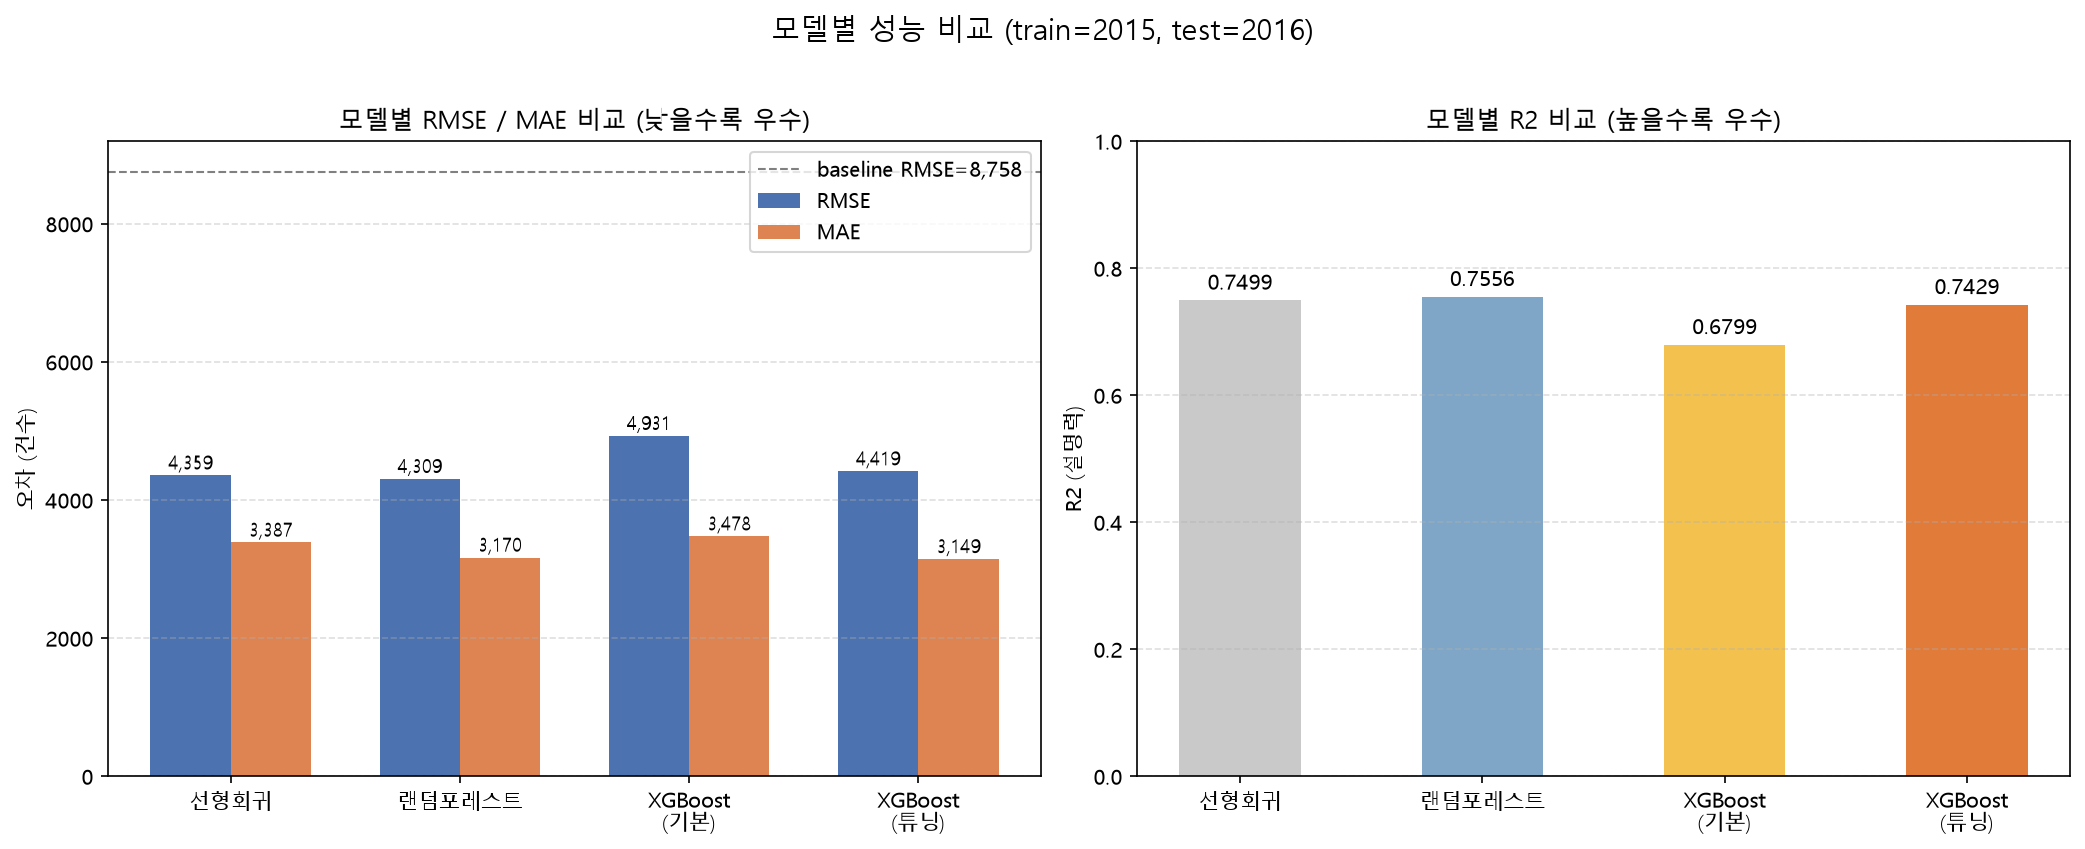
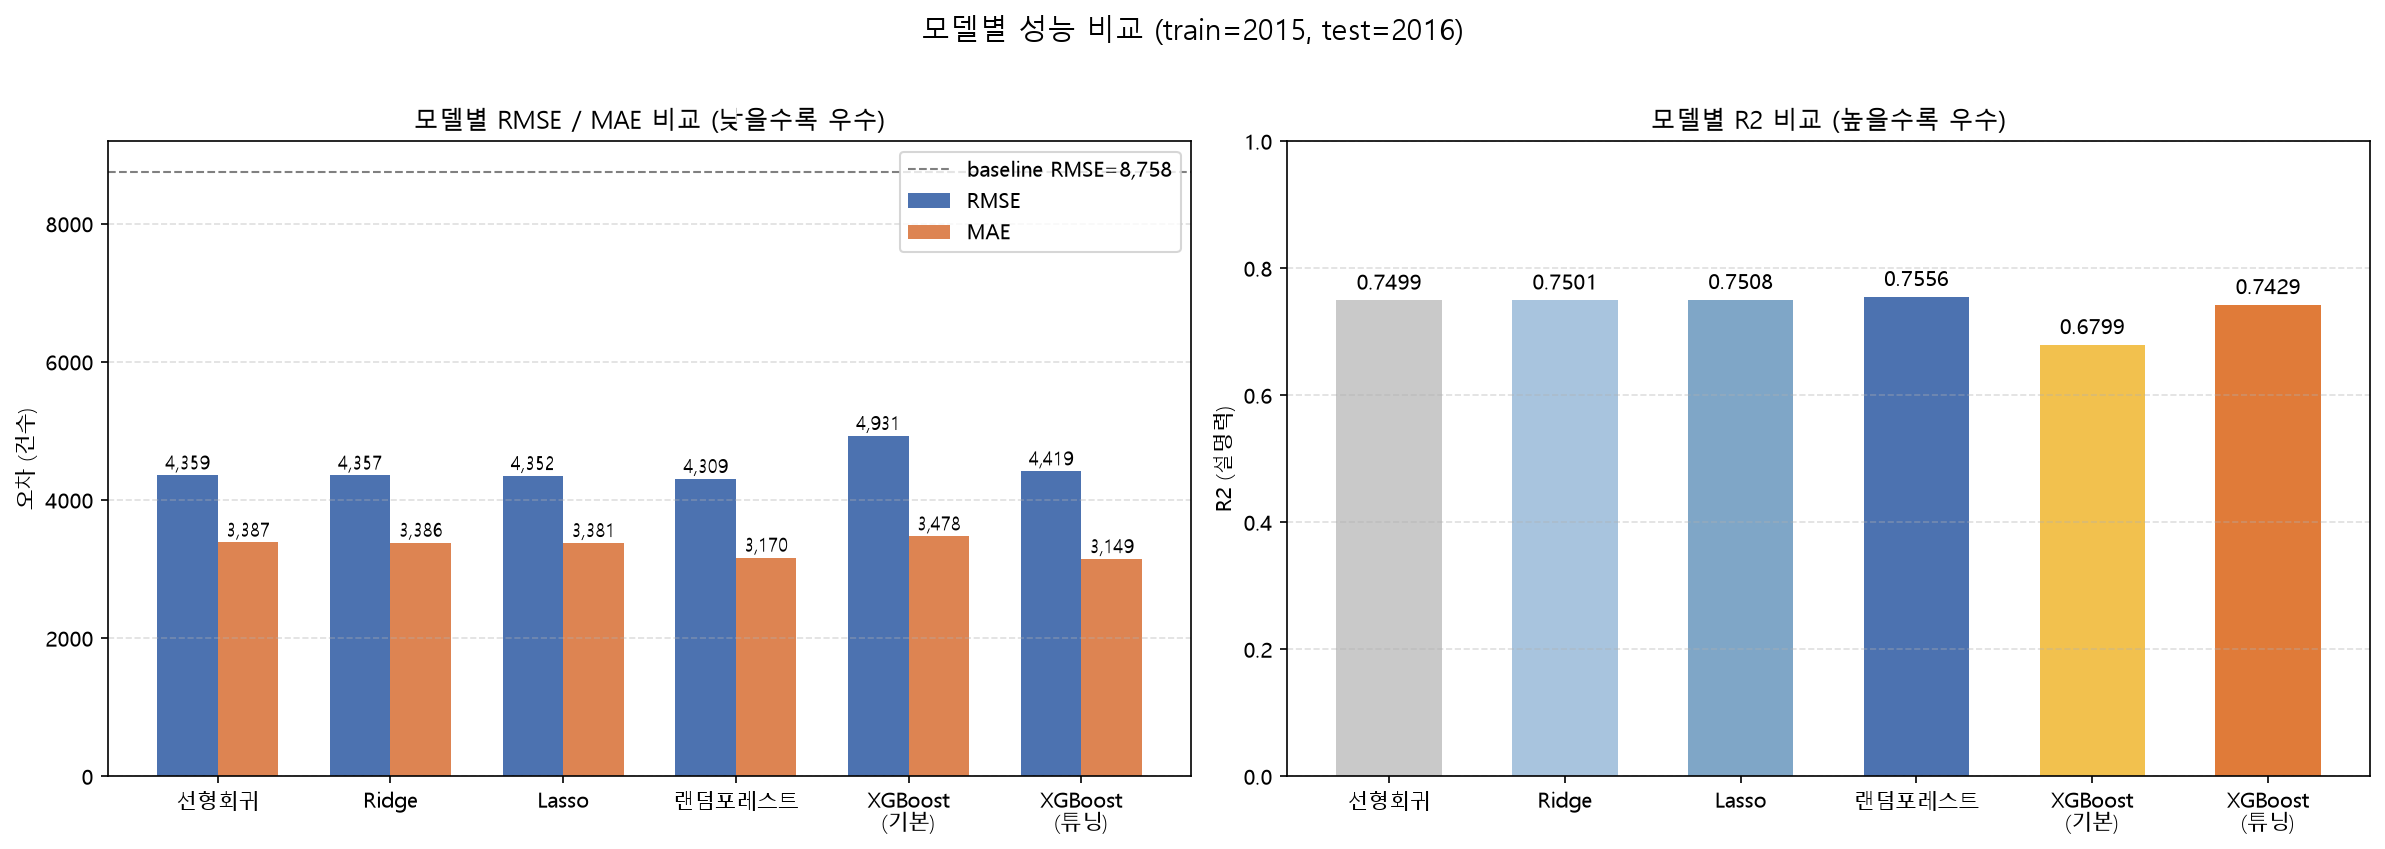
Add Ridge/Lasso regression to London model comparison
Adds RidgeCV/LassoCV (TimeSeriesSplit-tuned alpha) alongside the
existing 4 models. Both edge out plain linear regression slightly
but neither beats Random Forest, which remains the best model.
Renumbers src/08-13 to 08_ridge_lasso.py..14_prediction_band.py so
script execution order matches the actual dependency (model
comparison must run after ridge/lasso, not before).

diff --git a/02_london/src/10_model_comparison.py b/02_london/src/10_model_comparison.py
@@ -1,5 +1,5 @@
 """
-9단계: 모델 성능 비교 + baseline(train 평균 예측) 비교
+10단계: 모델 성능 비교 + baseline(train 평균 예측) 비교
 """
 import re
 import numpy as np
@@ -14,18 +14,27 @@ matplotlib.rcParams['font.family'] = 'Malgun Gothic'
 matplotlib.rcParams['axes.unicode_minus'] = False
 
 
-def parse_metrics(path):
-    text = open(path, encoding='utf-8').read()
+def parse_metrics(text):
     rmse = float(re.findall(r'RMSE:\s*([\d.]+)', text)[-1])
     mae = float(re.findall(r'MAE:\s*([\d.]+)', text)[-1])
     r2 = float(re.findall(r'R2:\s*([\d.]+)', text)[-1])
     return rmse, mae, r2
 
 
-lr_rmse, lr_mae, lr_r2 = parse_metrics('outputs/model/linear_regression_result.md')
-rf_rmse, rf_mae, rf_r2 = parse_metrics('outputs/model/random_forest_result.md')
-xgb_rmse, xgb_mae, xgb_r2 = parse_metrics('outputs/model/xgboost_baseline_result.md')
-xgbt_rmse, xgbt_mae, xgbt_r2 = parse_metrics('outputs/model/xgboost_tuning_result.md')
+def parse_file(path):
+    return parse_metrics(open(path, encoding='utf-8').read())
+
+
+lr_rmse, lr_mae, lr_r2 = parse_file('outputs/model/linear_regression_result.md')
+rf_rmse, rf_mae, rf_r2 = parse_file('outputs/model/random_forest_result.md')
+xgb_rmse, xgb_mae, xgb_r2 = parse_file('outputs/model/xgboost_baseline_result.md')
+xgbt_rmse, xgbt_mae, xgbt_r2 = parse_file('outputs/model/xgboost_tuning_result.md')
+
+ridge_lasso_text = open('outputs/model/ridge_lasso_result.md', encoding='utf-8').read()
+ridge_block = ridge_lasso_text.split('## Ridge')[1].split('## Lasso')[0]
+lasso_block = ridge_lasso_text.split('## Lasso')[1]
+ridge_rmse, ridge_mae, ridge_r2 = parse_metrics(ridge_block)
+lasso_rmse, lasso_mae, lasso_r2 = parse_metrics(lasso_block)
 
 # baseline: train(2015) 평균만 예측
 train_df = pd.read_csv('data/processed/day_london_2015.csv')
@@ -33,15 +42,16 @@ test_df = pd.read_csv('data/processed/day_london_2016.csv')
 baseline_pred = np.full(len(test_df), train_df[TARGET_COL].mean())
 baseline_rmse = np.sqrt(mean_squared_error(test_df[TARGET_COL], baseline_pred))
 
-models = ['선형회귀', '랜덤포레스트', 'XGBoost\n(기본)', 'XGBoost\n(튜닝)']
-rmse = [lr_rmse, rf_rmse, xgb_rmse, xgbt_rmse]
-mae = [lr_mae, rf_mae, xgb_mae, xgbt_mae]
-r2 = [lr_r2, rf_r2, xgb_r2, xgbt_r2]
+model_names = ['선형회귀', 'Ridge', 'Lasso', '랜덤포레스트', 'XGBoost(기본)', 'XGBoost(튜닝)']
+models = ['선형회귀', 'Ridge', 'Lasso', '랜덤포레스트', 'XGBoost\n(기본)', 'XGBoost\n(튜닝)']
+rmse = [lr_rmse, ridge_rmse, lasso_rmse, rf_rmse, xgb_rmse, xgbt_rmse]
+mae = [lr_mae, ridge_mae, lasso_mae, rf_mae, xgb_mae, xgbt_mae]
+r2 = [lr_r2, ridge_r2, lasso_r2, rf_r2, xgb_r2, xgbt_r2]
 
 best_idx = int(np.argmin(rmse))
-best_name = ['선형회귀', '랜덤포레스트', 'XGBoost(기본)', 'XGBoost(튜닝)'][best_idx]
+best_name = model_names[best_idx]
 
-fig, axes = plt.subplots(1, 2, figsize=(14, 5.5))
+fig, axes = plt.subplots(1, 2, figsize=(16, 5.5))
 
 ax = axes[0]
 x = np.arange(len(models))
@@ -61,8 +71,8 @@ ax.legend()
 ax.grid(axis='y', linestyle='--', alpha=0.4)
 
 ax2 = axes[1]
-colors = ['#c9c9c9', '#7fa6c7', '#f2c14e', '#e07b39']
-bars3 = ax2.bar(models, r2, color=colors, width=0.5)
+colors = ['#c9c9c9', '#a8c4de', '#7fa6c7', '#4c72b0', '#f2c14e', '#e07b39']
+bars3 = ax2.bar(models, r2, color=colors, width=0.6)
 for b, v in zip(bars3, r2):
     ax2.text(b.get_x() + b.get_width() / 2, v + 0.01, f'{v:.4f}', ha='center', va='bottom', fontsize=10)
 ax2.set_ylim(0, 1)
@@ -77,7 +87,7 @@ plt.savefig('outputs/model/model_comparison.png', dpi=150, bbox_inches='tight')
 with open('outputs/model/model_comparison_summary.md', 'w', encoding='utf-8') as f:
     f.write('# 모델 성능 비교 (train=2015, test=2016)\n\n')
     f.write('| 순위 | 모델 | RMSE | MAE | R2 |\n|---|---|---|---|---|\n')
-    rows = sorted(zip(['선형회귀', '랜덤포레스트', 'XGBoost(기본)', 'XGBoost(튜닝)'], rmse, mae, r2), key=lambda x: x[1])
+    rows = sorted(zip(model_names, rmse, mae, r2), key=lambda x: x[1])
     for i, (name, rm, ma, r) in enumerate(rows, 1):
         mark = '**' if i == 1 else ''
         f.write(f'| {i} | {mark}{name}{mark} | {mark}{rm:,.2f}{mark} | {mark}{ma:,.2f}{mark} | {mark}{r:.4f}{mark} |\n')

diff --git a/02_london/src/08_ridge_lasso.py b/02_london/src/08_ridge_lasso.py
@@ -1,0 +1,65 @@
+"""
+8단계: Ridge / Lasso 회귀 (train=2015 -> test=2016)
+
+alpha는 RidgeCV/LassoCV + TimeSeriesSplit(train 2015 내부에서만)으로 탐색한다.
+XGBoost 튜닝(9단계)과 같은 원칙 — 무작위 CV는 시계열에서 낙관적인 점수를 주므로 쓰지 않는다.
+"""
+import pandas as pd
+import numpy as np
+from sklearn.linear_model import RidgeCV, LassoCV
+from sklearn.preprocessing import StandardScaler
+from sklearn.model_selection import TimeSeriesSplit
+from sklearn.metrics import mean_squared_error, mean_absolute_error, r2_score
+
+from common import get_feature_cols, TARGET_COL
+
+train_df = pd.read_csv('data/processed/day_london_2015.csv')
+test_df = pd.read_csv('data/processed/day_london_2016.csv')
+
+feature_cols = get_feature_cols()
+X_train, y_train = train_df[feature_cols], train_df[TARGET_COL]
+X_test, y_test = test_df[feature_cols], test_df[TARGET_COL]
+
+# 선형모델의 정규화(alpha)는 변수 스케일에 민감하므로 표준화 후 학습
+scaler = StandardScaler()
+X_train_s = scaler.fit_transform(X_train)
+X_test_s = scaler.transform(X_test)
+
+cv = TimeSeriesSplit(n_splits=5)
+alphas = np.logspace(-2, 3, 60)
+
+lines = ['# Ridge / Lasso 회귀 결과 (train=2015, test=2016)\n']
+lines.append('alpha 탐색: RidgeCV/LassoCV + 5-fold TimeSeriesSplit(train 2015 내부에서만), 표준화된 입력 사용\n')
+
+results = {}
+for name, Model in [('Ridge', RidgeCV), ('Lasso', LassoCV)]:
+    kwargs = {'alphas': alphas, 'cv': cv}
+    if name == 'Lasso':
+        kwargs = {'alphas': alphas, 'cv': cv, 'max_iter': 20000}
+    model = Model(**kwargs)
+    model.fit(X_train_s, y_train)
+    pred = model.predict(X_test_s)
+
+    rmse = np.sqrt(mean_squared_error(y_test, pred))
+    mae = mean_absolute_error(y_test, pred)
+    r2 = r2_score(y_test, pred)
+    results[name] = (rmse, mae, r2)
+
+    n_zero = int((np.abs(model.coef_) < 1e-8).sum()) if name == 'Lasso' else 0
+
+    lines.append(f'\n## {name}\n')
+    lines.append(f'- 선택된 alpha: {model.alpha_:.4f}\n')
+    lines.append(f'- RMSE: {rmse:.2f}\n- MAE: {mae:.2f}\n- R2: {r2:.4f}\n')
+    if name == 'Lasso':
+        lines.append(f'- 계수가 0으로 수렴한 변수 수: {n_zero} / {len(feature_cols)}\n')
+    lines.append('\n### 표준화 회귀계수\n| 변수 | 계수 |\n|---|---|\n')
+    for c, coef in sorted(zip(feature_cols, model.coef_), key=lambda x: -abs(x[1])):
+        flag = ' (0으로 수렴)' if name == 'Lasso' and abs(coef) < 1e-8 else ''
+        lines.append(f'| {c}{flag} | {coef:.2f} |\n')
+
+with open('outputs/model/ridge_lasso_result.md', 'w', encoding='utf-8') as f:
+    f.writelines(lines)
+
+print('저장 완료: outputs/model/ridge_lasso_result.md')
+for name, (rmse, mae, r2) in results.items():
+    print(f'{name}: RMSE={rmse:.2f}, MAE={mae:.2f}, R2={r2:.4f}')

diff --git a/02_london/src/14_prediction_band.py b/02_london/src/14_prediction_band.py
@@ -1,5 +1,5 @@
 """
-13단계: 최우수 모델(랜덤포레스트)의 2016년 일별 예측 밴드 + 실제값 시각화용 데이터 생성
+14단계: 최우수 모델(랜덤포레스트)의 2016년 일별 예측 밴드 + 실제값 시각화용 데이터 생성
 
 밴드는 300개 트리 각각의 개별 예측값 분포에서 10~90 백분위수(80% 구간)로 계산한다.
 이는 test(2016) 정답을 전혀 들여다보지 않고 모델 자체의 앙상블 불확실성만으로 구한 밴드다.

diff --git a/02_london/src/11_feature_importance.py b/02_london/src/11_feature_importance.py
@@ -1,5 +1,5 @@
 """
-10단계: 최우수 모델(랜덤포레스트, 09단계 비교 결과) 기준 변수 중요도 시각화
+11단계: 최우수 모델(랜덤포레스트, 10단계 비교 결과) 기준 변수 중요도 시각화
 
 워싱턴은 튜닝된 XGBoost가 최우수였지만, 런던은 09_model_comparison 결과
 랜덤포레스트가 근소하게 더 낮은 RMSE를 기록해 최우수 모델로 채택했다

diff --git a/02_london/src/09_xgboost_tuning.py b/02_london/src/09_xgboost_tuning.py
@@ -1,5 +1,5 @@
 """
-8단계: XGBoost 하이퍼파라미터 튜닝 (GridSearchCV, 5-fold TimeSeriesSplit, train=2015 내부에서만)
+9단계: XGBoost 하이퍼파라미터 튜닝 (GridSearchCV, 5-fold TimeSeriesSplit, train=2015 내부에서만)
 그리드는 워싱턴과 동일 범위 유지 (사용자 확정).
 """
 import pandas as pd

diff --git a/02_london/src/13_anomaly_detection.py b/02_london/src/13_anomaly_detection.py
@@ -1,5 +1,5 @@
 """
-12단계: Isolation Forest 이상치 탐지 (2015+2016 전체, 727일)
+13단계: Isolation Forest 이상치 탐지 (2015+2016 전체, 727일)
 워싱턴과 동일 설정(contamination=5%)으로 시작 (사용자 확정).
 """
 import pandas as pd

diff --git a/02_london/src/12_shap_analysis.py b/02_london/src/12_shap_analysis.py
@@ -1,5 +1,5 @@
 """
-11단계: SHAP 분석 (최우수 모델 = 랜덤포레스트 기준)
+12단계: SHAP 분석 (최우수 모델 = 랜덤포레스트 기준)
 """
 import matplotlib
 matplotlib.use('Agg')

diff --git a/02_london/docs/REPORT.md b/02_london/docs/REPORT.md
@@ -68,14 +68,18 @@ train(2015) 기준 `cnt`와의 상관관계 전체(`outputs/eda/correlation_summ
 | 순위 | 모델 | RMSE | MAE | R2 |
 |---|---|---|---|---|
 | 1 | **랜덤포레스트** | **4,308.82** | **3,169.69** | **0.7556** |
-| 2 | 선형회귀 | 4,359.46 | 3,387.17 | 0.7499 |
-| 3 | XGBoost(튜닝) | 4,419.45 | 3,148.64 | 0.7429 |
-| 4 | XGBoost(기본) | 4,931.37 | 3,477.51 | 0.6799 |
+| 2 | Lasso | 4,351.50 | 3,381.41 | 0.7508 |
+| 3 | Ridge | 4,357.40 | 3,385.77 | 0.7501 |
+| 4 | 선형회귀 | 4,359.46 | 3,387.17 | 0.7499 |
+| 5 | XGBoost(튜닝) | 4,419.45 | 3,148.64 | 0.7429 |
+| 6 | XGBoost(기본) | 4,931.37 | 3,477.51 | 0.6799 |
 | — | (참고) train(2015) 평균만 예측 | 8,757.83 | — | — |
 
-(`outputs/model/model_comparison.png`, 각 모델 상세: `outputs/model/*_result.md`)
+(`outputs/model/model_comparison.png`, 각 모델 상세: `outputs/model/*_result.md`, `outputs/model/ridge_lasso_result.md`)
 
-**워싱턴과 다른 결과**: 워싱턴에서는 튜닝된 XGBoost가 항상 최우수였지만, 런던에서는 **랜덤포레스트가 근소하게 더 우수**하다(RMSE 4,309 vs 4,419). 순위를 미리 정해두지 않고 실측한 결과이며, 4개 모델 모두 baseline 대비 39~51% 개선되어 있어 어느 쪽을 선택해도 실질적인 예측력은 확보된다. 본 리포트는 **최우수 모델(랜덤포레스트)**를 기준으로 이후 분석(변수 중요도, SHAP)을 진행한다.
+**Ridge/Lasso 추가**: 정규화 선형모델도 추가로 확인했다. alpha는 `RidgeCV`/`LassoCV` + TimeSeriesSplit(train 2015 내부에서만, XGBoost 튜닝과 동일 원칙)으로 탐색했다. 둘 다 일반 선형회귀보다 근소하게 개선됐지만(RMSE 기준 0.2~0.4%) 여전히 랜덤포레스트에는 못 미친다. Lasso가 9개 변수 중 0으로 수렴시킨 변수는 없었다 — 정규화의 개선폭이 작다는 건 원래 선형회귀가 과적합 상태가 아니었음을 시사한다.
+
+**워싱턴과 다른 결과**: 워싱턴에서는 튜닝된 XGBoost가 항상 최우수였지만, 런던에서는 **랜덤포레스트가 근소하게 더 우수**하다(RMSE 4,309 vs 4,419). 순위를 미리 정해두지 않고 실측한 결과이며, 6개 모델 모두 baseline 대비 44~51% 개선되어 있어 어느 쪽을 선택해도 실질적인 예측력은 확보된다. 본 리포트는 **최우수 모델(랜덤포레스트)**를 기준으로 이후 분석(변수 중요도, SHAP)을 진행한다.
 
 ### 4.2 하이퍼파라미터 튜닝
 
@@ -161,7 +165,7 @@ train(2015) 기준 `cnt`와의 상관관계 전체(`outputs/eda/correlation_summ
 | `t1`~`t2` 다중공선성 | 상관계수 0.992 실측 | `t1` 제외 |
 | `is_weekend`~`weekday` 완전 중복 | 730일 전체에서 weekday 0·6일 때만 is_weekend=1, 예외 없음 확인 | `is_weekend` 제외 |
 | `weathersit`(워싱턴) 규칙 그대로 적용 가능 여부 | weather_code 7개 코드가 실제 악화 순서와 일치함을 웹 검색으로 확인 | 리매핑 없이 원본 코드로 그대로 사용 |
-| 최우수 모델이 XGBoost일 것이라는 가정 | 4개 모델 실측 비교 | 랜덤포레스트가 근소 우위 — 가정 대신 실측 채택 |
+| 최우수 모델이 XGBoost일 것이라는 가정 | 6개 모델(선형회귀/Ridge/Lasso/랜덤포레스트/XGBoost 2종) 실측 비교 | 랜덤포레스트가 근소 우위 — 가정 대신 실측 채택 |
 | 이상치 최상위권(2015-07-09)의 원인 | 외부 뉴스 기사 대조 | 지하철 파업으로 인한 실제 수요 급증 확인 |
 
 ## 8. 한계 및 남은 과제

diff --git a/worklog/2026-08-19.md b/worklog/2026-08-19.md
@@ -1,13 +1,17 @@
 # 2026-08-19
 
 ## 요약 (여기 10줄만 봐도 파악 가능)
-- **직전 작업**: `02_london` 전체 분석 파이프라인(품질점검→EDA→모델비교→튜닝→변수중요도→SHAP→이상치탐지) 완주, `02_london/docs/REPORT.md` 작성 완료. **최우수 모델은 랜덤포레스트(RMSE 4,308.82, R2 0.7556)** — train(2015) 평균 baseline 대비 50.8% 개선.
+- **직전 작업**: `02_london`에 Ridge/Lasso 회귀 추가(RidgeCV/LassoCV + TimeSeriesSplit), 스크립트 실행 순서 정합성을 위해 `08_ridge_lasso.py`부터 `14_prediction_band.py`까지 번호 재정렬, `model_comparison`을 6개 모델 비교로 갱신. **최우수 모델은 여전히 랜덤포레스트(RMSE 4,308.82, R2 0.7556)**.
 - **다음 할 일**:
-  1. 오늘 변경분(02_london 전체: src 12개 스크립트, outputs, docs, worklog) git commit (아직 미커밋)
+  1. 이번 재정렬·Ridge/Lasso 변경분 git commit + push (`20차시` 저장소와 별도로 분리해둔 `london_bike` 저장소 둘 다 재동기화 필요 — 현재 두 곳 모두 이 변경 전 상태로 push돼 있음)
   2. weather_code 최빈값 동률("더 나쁜 코드 우선") 처리가 실제 몇 건 발생했는지 아직 집계 안 함 (변환 단계 이월 항목)
   3. 이상치 vs 예측오차 Top10 교집합 비교(워싱턴에서 했던 것)는 이번엔 진행 안 함 — REPORT 8절 한계로만 명시
   4. weathersit(워싱턴) "최악등급 4시간 이상" 규칙 731일 전체 재검증 안 됨 (이월 항목)
-- **상태**: 워싱턴(01_washington), 런던(02_london) **둘 다 전체 분석·리포트 작성 완료**. 두 프로젝트 모두 git commit만 남음.
+- **상태**: 워싱턴(01_washington)은 완료·`capital-bikeshare-portfolio` 저장소에 push 완료. 런던(02_london)은 분석 완료 후 `capital-bikeshare-portfolio`(모노레포 형태)와 독립 저장소 `london_bike` 양쪽에 push했으나, **이후 추가한 Ridge/Lasso·재정렬 변경분은 아직 두 곳 다 push 전**.
+
+**오늘 있었던 GitHub 작업**
+- `01_washington` + `02_london` 통합 상태를 `https://github.com/blanciel1977-lab/capital-bikeshare-portfolio`에 커밋·push (루트 README.md 신규 작성해 포트폴리오 랜딩페이지로 구성)
+- 사용자 요청으로 `02_london`만 별도 분리해 새 공개 저장소 `https://github.com/blanciel1977-lab/london_bike` 생성(로컬 위치: `C:\Users\jungs\Documents\wiset_클로드\london_bike`, `20차시`와는 독립된 git 저장소). README의 워싱턴 링크는 원본 포트폴리오 저장소 URL로 수정
 
 **런던 핵심 결과 요약** (자세한 근거는 `02_london/docs/REPORT.md`)
 - 최우수 모델: 랜덤포레스트 (워싱턴은 XGBoost 튜닝이 항상 1위였는데, 런던은 랜덤포레스트가 근소 우위 — 가정하지 않고 실측으로 결정)

diff --git a/02_london/docs/CLAUDE_WORKFLOW.md b/02_london/docs/CLAUDE_WORKFLOW.md
@@ -69,8 +69,16 @@
 
 `02_london/docs/REPORT.md`를 워싱턴 REPORT.md와 동일한 8절 구조(데이터개요/품질점검/EDA/모델링/이상치탐지/결론/검증이력/한계)로 작성. 워싱턴과 다르게 나온 부분(최우수 모델이 XGBoost가 아닌 점, 습도 영향이 더 큰 점)을 숨기지 않고 "차이점"으로 명시했다.
 
+## 10. Ridge / Lasso 추가 및 스크립트 재정렬
+
+- 사용자가 "선형회귀 종류를 몇 가지 했나"라고 질문 → 단순 OLS 1종(스케일만 원본/표준화 2가지)이었음을 확인·답변한 뒤, "Ridge/Lasso도 추가로 돌려볼 수 있나" 질문에 실제로 실행
+- `RidgeCV`/`LassoCV` + TimeSeriesSplit(train 2015 내부에서만, XGBoost 튜닝과 동일 원칙)로 alpha 탐색. 결과: Ridge RMSE 4,357.40/R² 0.7501, Lasso RMSE 4,351.50/R² 0.7508 — 둘 다 일반 선형회귀보다 근소 개선되었으나 랜덤포레스트에는 못 미침. Lasso가 0으로 수렴시킨 변수는 없어 정규화 효과가 크지 않음(원래 과적합이 아니었다는 뜻)을 확인
+- 사용자가 "반영"을 요청 → `10_model_comparison.py`가 Ridge/Lasso 결과까지 파싱하도록 수정, `model_comparison.png`/`model_comparison_summary.md` 재생성(6개 모델 비교로 확장)
+- **스크립트 실행 순서 정합성을 위해 번호를 재정렬**: 신규 스크립트는 `10_model_comparison.py`(모델 비교, Ridge/Lasso 포함해 파싱)보다 먼저 실행돼야 하므로, `14_ridge_lasso.py`로 만들었던 파일을 `08_ridge_lasso.py`로 옮기고 이후 08~13번을 전부 한 칸씩 밀었다(09_xgboost_tuning ~ 14_prediction_band). 각 파일 docstring의 "N단계" 표기도 함께 수정하고, 재배치 후 08~11번을 재실행해 결과가 그대로 재현됨을 확인
+- `README.md`, `REPORT.md`의 모델 비교 표와 스크립트 목록·재현 방법을 6개 모델/새 번호 기준으로 갱신
+
 ## 다음 단계 (미착수)
 
 - weather_code 최빈값 동률 처리("더 나쁜 코드 우선")가 실제로 몇 건 발생했는지 아직 집계 안 함(변환 단계 이월 항목)
 - 이상치 vs 예측오차 Top10 교집합 비교(워싱턴에서 수행했던 것)는 이번엔 진행 안 함 — REPORT 8절 한계로 명시
-- git commit 아직 안 함
+- 이번 재정렬·Ridge/Lasso 추가분 git commit/push 아직 안 함 (기존 `london_bike` 저장소도 재동기화 필요)

diff --git a/02_london/outputs/model/ridge_lasso_result.md b/02_london/outputs/model/ridge_lasso_result.md
@@ -1,0 +1,41 @@
+# Ridge / Lasso 회귀 결과 (train=2015, test=2016)
+alpha 탐색: RidgeCV/LassoCV + 5-fold TimeSeriesSplit(train 2015 내부에서만), 표준화된 입력 사용
+
+## Ridge
+- 선택된 alpha: 0.7318
+- RMSE: 4357.40
+- MAE: 3385.77
+- R2: 0.7501
+
+### 표준화 회귀계수
+| 변수 | 계수 |
+|---|---|
+| t2 | 4195.09 |
+| hum | -3158.96 |
+| workingday | 2474.90 |
+| wind_speed | -2221.08 |
+| weather_code | -1166.71 |
+| mnth | -486.17 |
+| weekday | 401.09 |
+| is_holiday | -270.79 |
+| season | -86.64 |
+
+## Lasso
+- 선택된 alpha: 16.6088
+- RMSE: 4351.50
+- MAE: 3381.41
+- R2: 0.7508
+- 계수가 0으로 수렴한 변수 수: 0 / 9
+
+### 표준화 회귀계수
+| 변수 | 계수 |
+|---|---|
+| t2 | 4177.58 |
+| hum | -3167.54 |
+| workingday | 2465.80 |
+| wind_speed | -2210.59 |
+| weather_code | -1157.93 |
+| mnth | -463.50 |
+| weekday | 386.11 |
+| is_holiday | -256.95 |
+| season | -77.38 |
